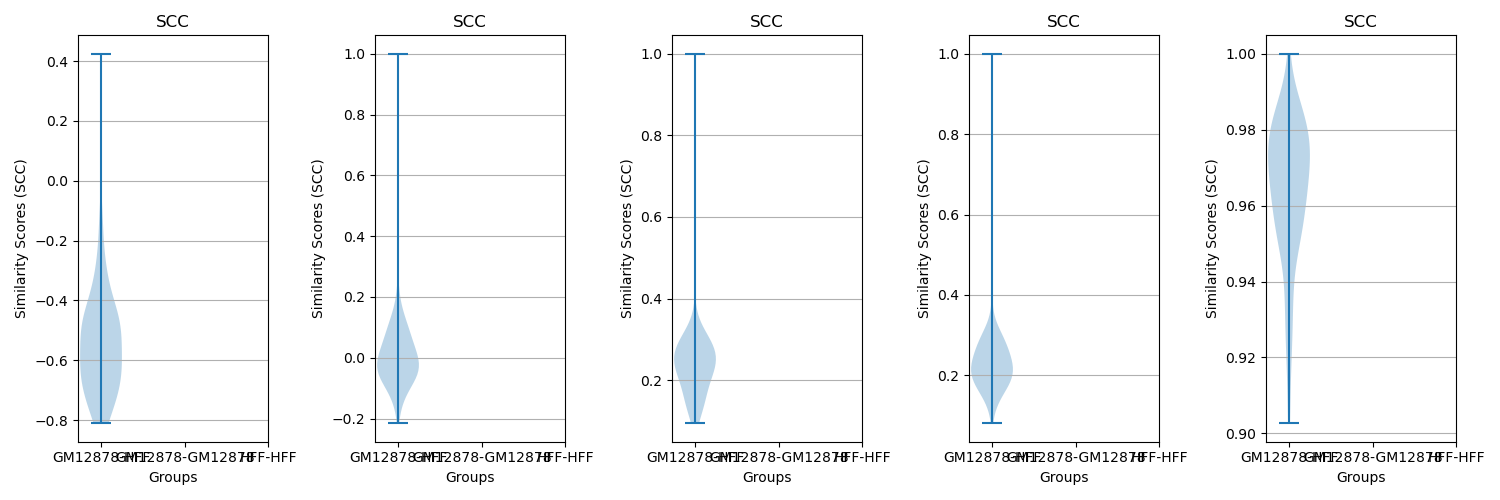
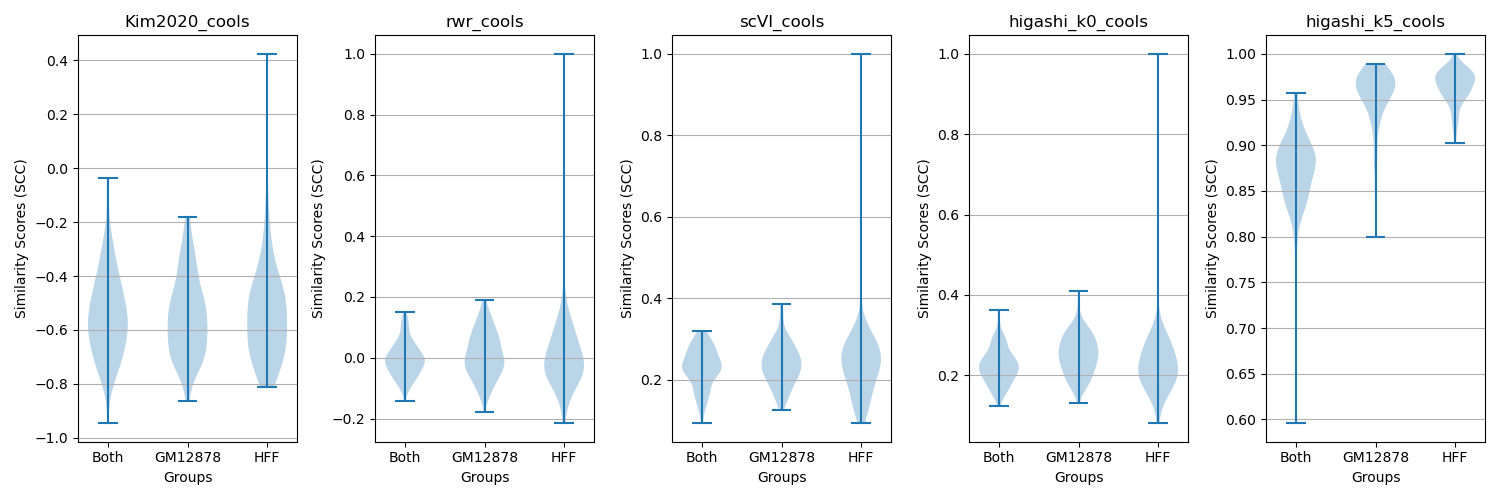
fixed plot

diff --git a/experiments/2023-09-18/plot_SCC_2.py b/experiments/2023-09-18/plot_SCC_2.py
@@ -68,17 +68,18 @@ fig, axes = plt.subplots(1, 5, figsize=(15, 5))
 
 # Set the common x-axis ticks and labels
 x_ticks = [1, 2, 3]
-x_tick_labels = ["GM12878-HFF", "GM12878-GM12878", "HFF-HFF"]
+x_tick_labels = ["Both", "GM12878", "HFF"]
 colors = ['blue', 'green', 'red', 'cyan', 'orange']
 for i, d in enumerate(dirs):
     ax = axes[i]  # Get the current axis
+    all_violin_data = []
     for j, p in enumerate(pairs_list):
-        all_violin_data = []
         temp_df = pd.read_csv(os.path.join(d, p), sep='\t')
         temp_df["HiCRep_SCC"] = pd.to_numeric(temp_df["HiCRep_SCC"])
         all_violin_data.append(temp_df["HiCRep_SCC"])
+    print(len(all_violin_data))
     # pos = [j+1] * 5
-    v = ax.violinplot(all_violin_data, showmeans=False, showmedians=False)                
+    v = ax.violinplot(all_violin_data, positions=[1,2,3], showmeans=False, showmedians=False)                
         # Set colors for the violin bodies
 #    for violin, color in zip(v['bodies'], colors):
 #        violin.set_facecolor(color)
@@ -96,7 +97,7 @@ for i, d in enumerate(dirs):
     ax.set_xticklabels(x_tick_labels)
     ax.set_xlabel('Groups')
     ax.set_ylabel('Similarity Scores (SCC)')
-    ax.set_title("SCC")
+    ax.set_title(os.path.basename(d))
     ax.grid(axis='y')
 
 # Add a legend to the first subplot (you can customize this as needed)
